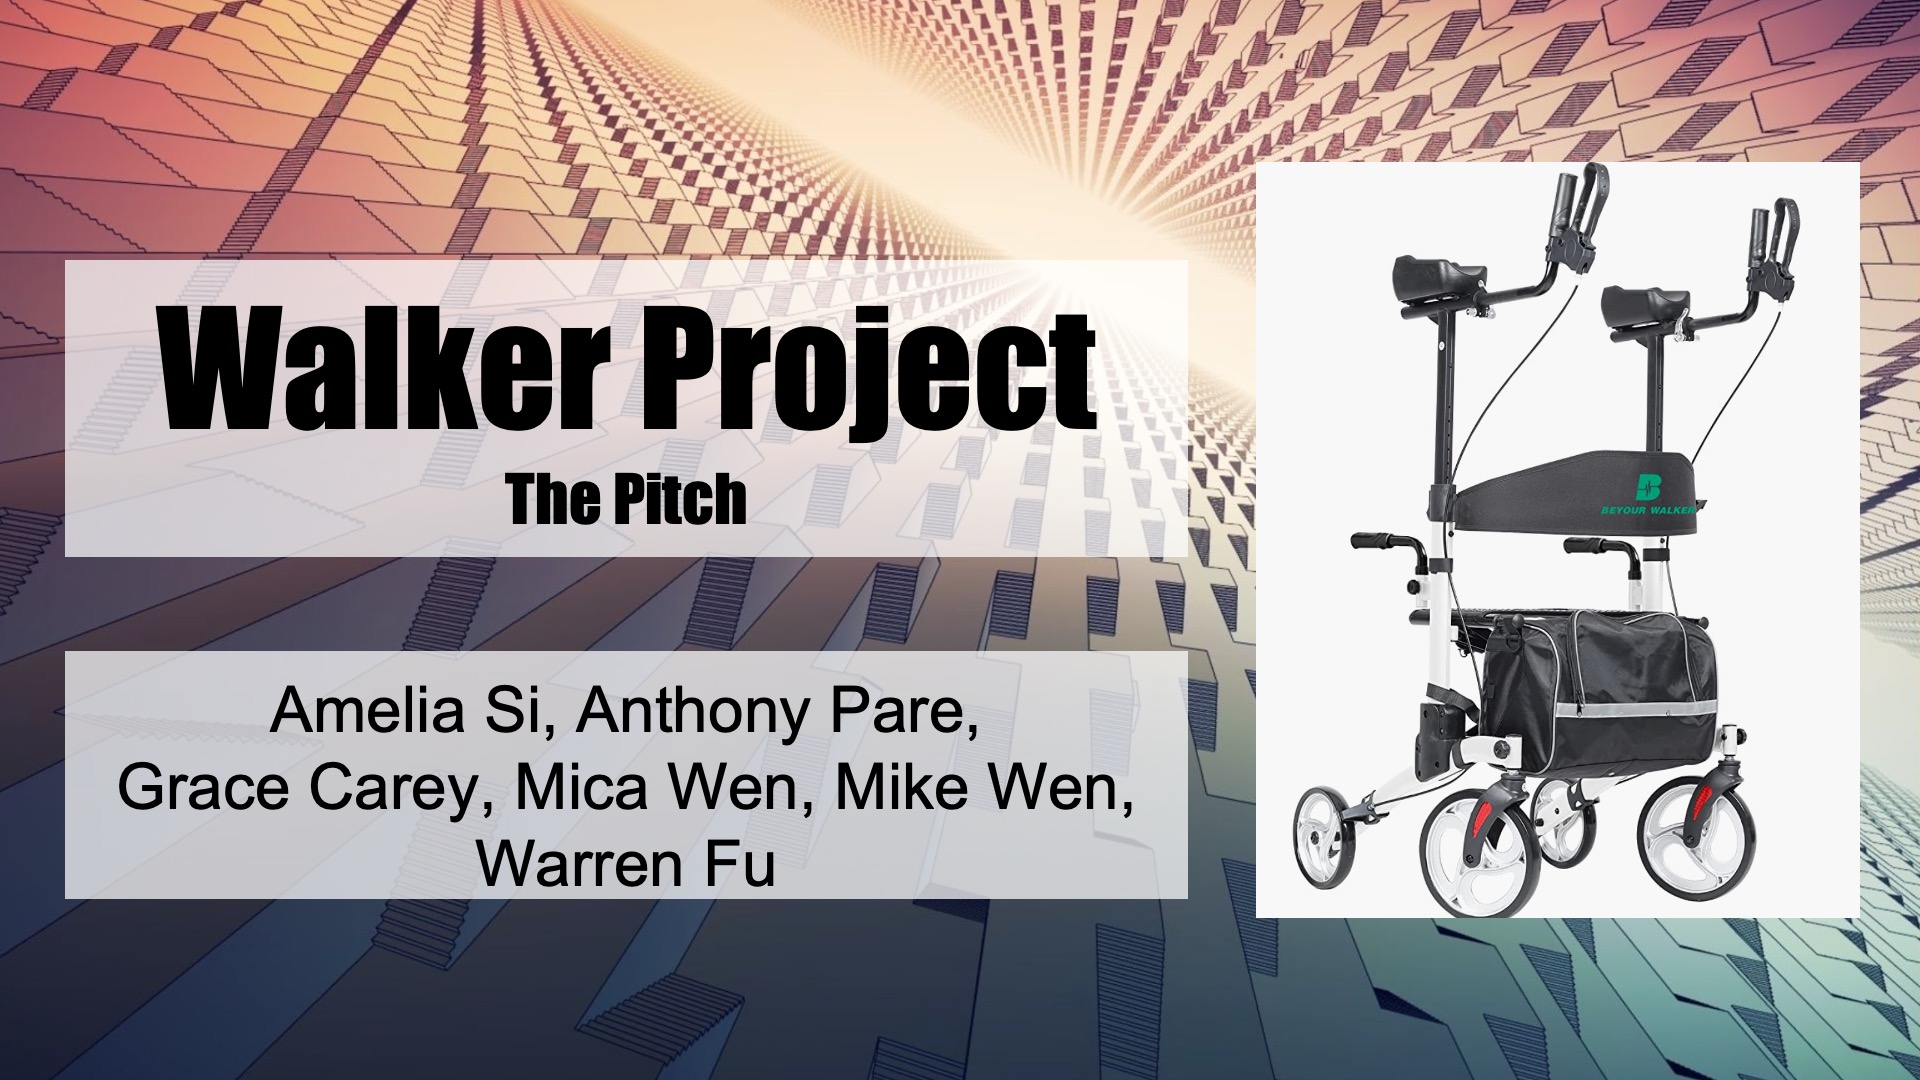
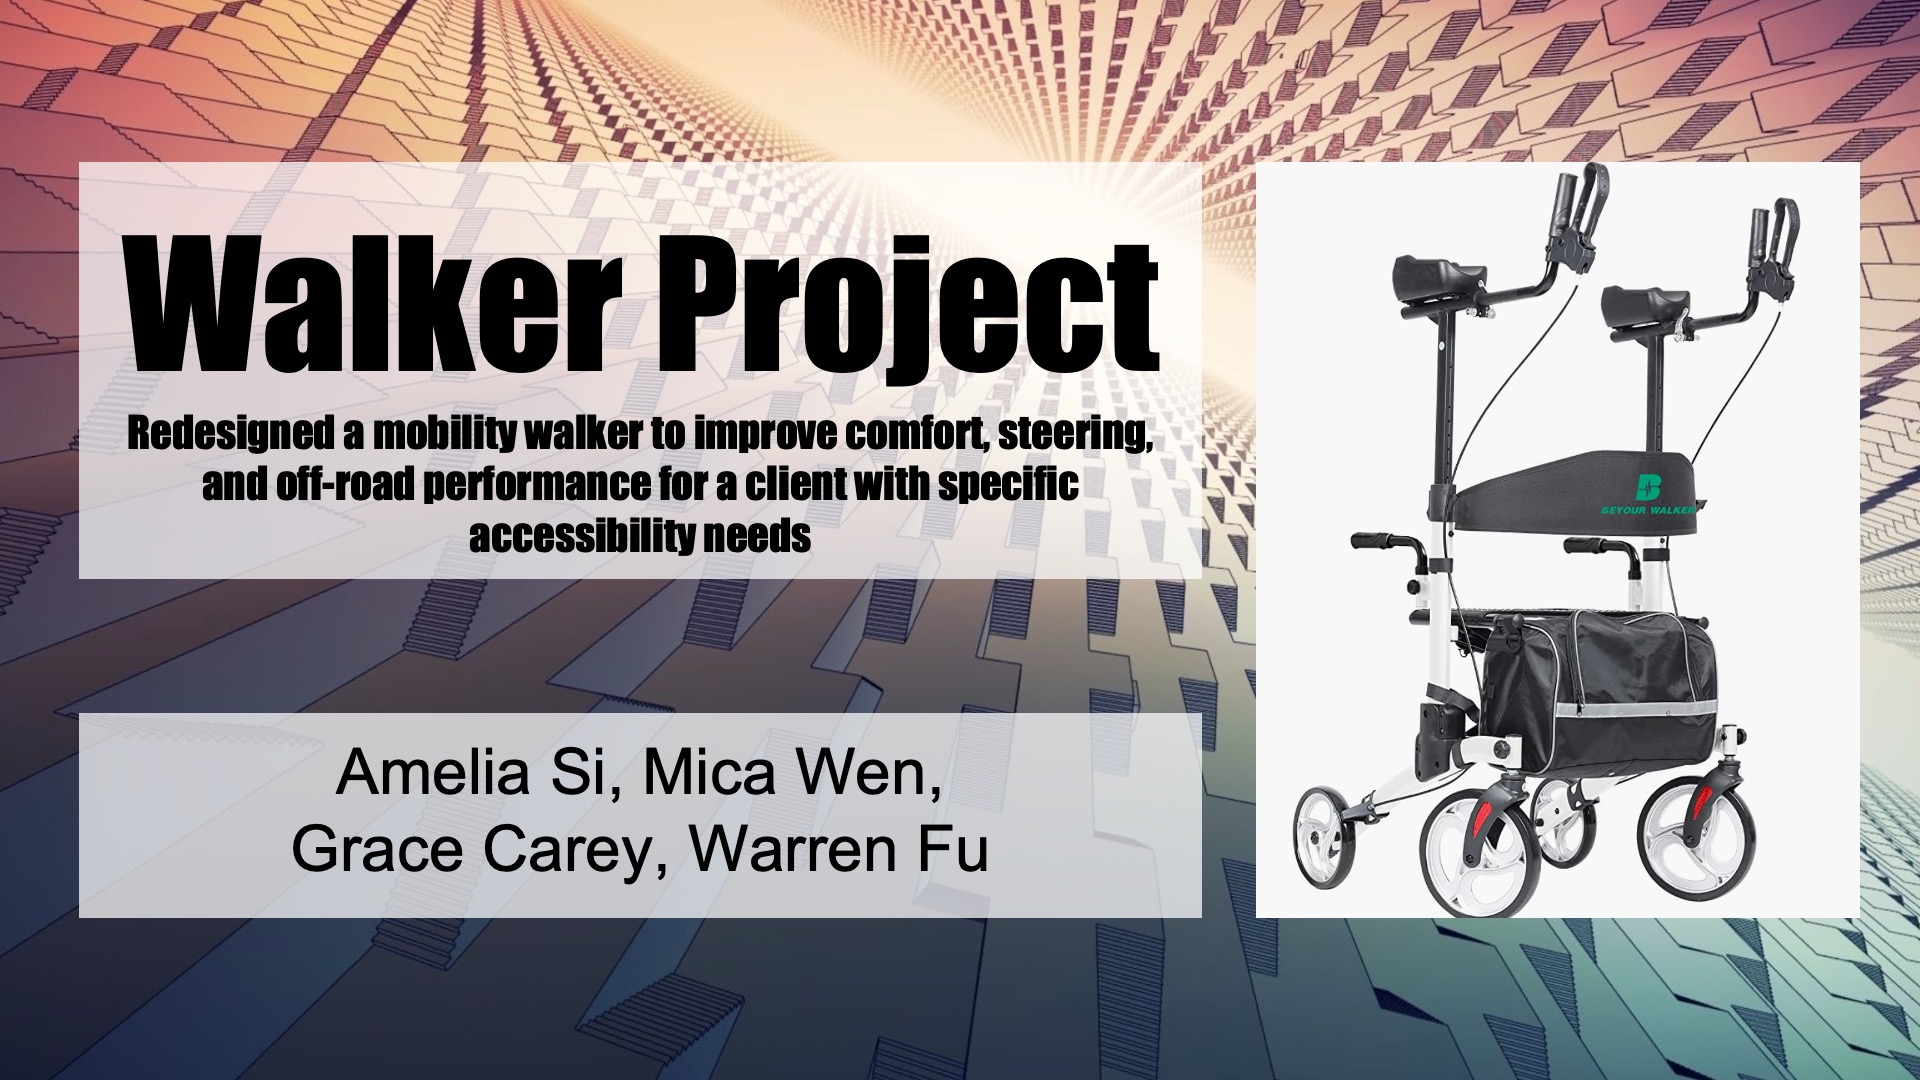
Update Walker Project overview with concise pitch

Changed region(s): [[0.0312, 0.1528, 0.625, 0.55], [0.0312, 0.5806, 0.625, 0.8556]]

diff --git a/index.html b/index.html
@@ -320,10 +320,9 @@
 
                     <h4>Overview</h4>
                     <p>
-                        Co-led the redesign of a mobility walker for a client,
-                        taking the project from requirements gathering through
-                        CAD prototyping to an improved final design that
-                        enhanced mobility and accessibility.
+                        Redesigned a mobility walker to improve comfort,
+                        steering, and off-road performance for a client with
+                        specific accessibility needs.
                     </p>
 
                     <h4>What I Did</h4>
